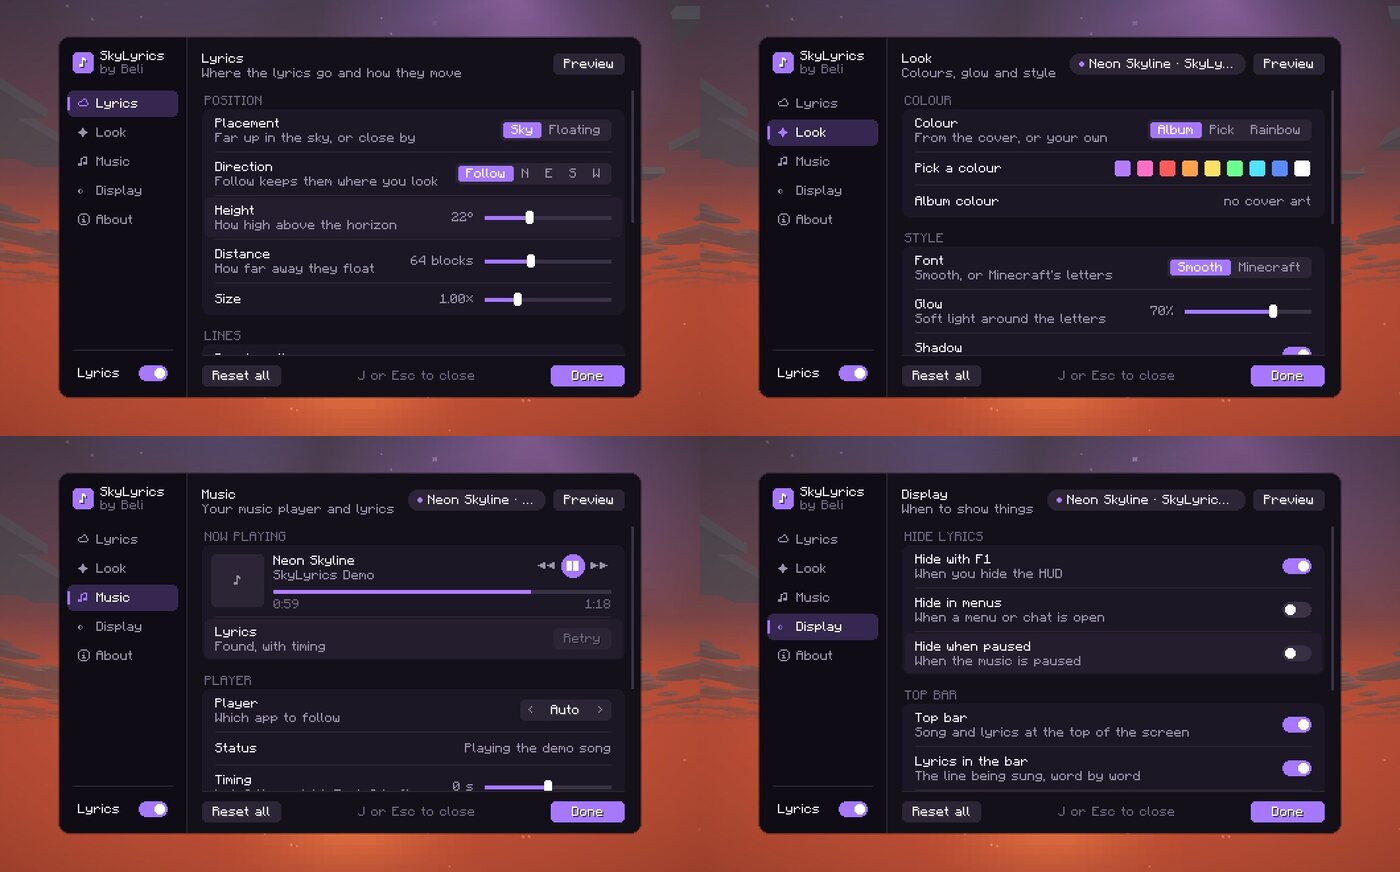
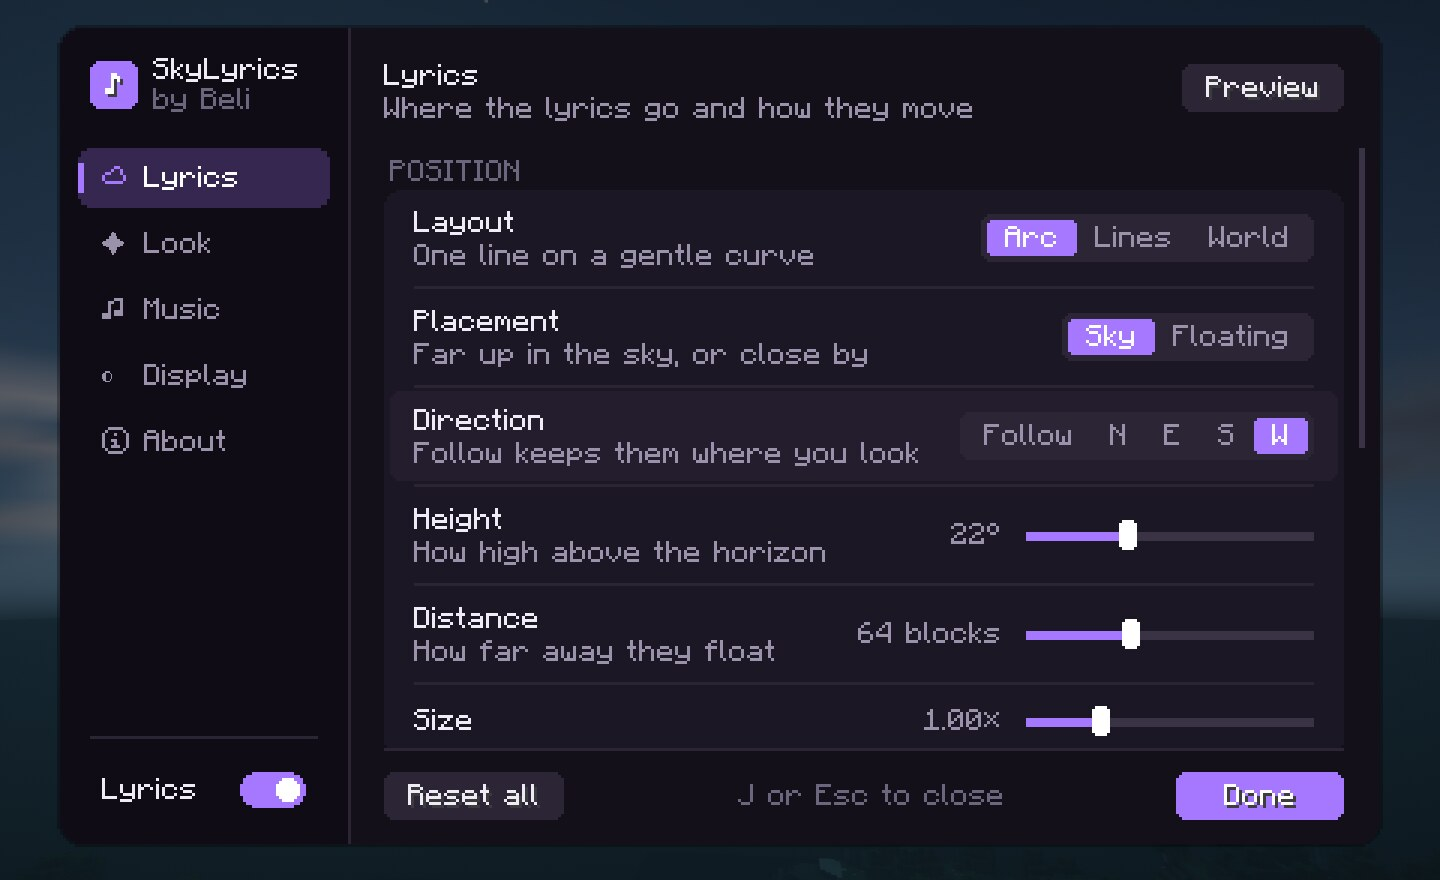
README: pictures of the Synthwave, Moonlight and Eclipse skies and the World layout
Also a fresh picture of the settings screen.

diff --git a/README.md b/README.md
@@ -35,6 +35,10 @@ Download it from the [Releases page](https://github.com/arbelonson-source/belis-
 | Sunset, with shaders | Aurora at night, with shaders |
 | ![Nebula at night](docs/nebula.jpg) | ![Daytime without shaders](docs/daytime.jpg) |
 | Nebula at night | Daytime, no shaders |
+| ![Synthwave sky](docs/synthwave.jpg) | ![Moonlight sky](docs/moonlight.jpg) |
+| Synthwave sky, with shaders | Moonlight sky, with shaders |
+| ![Eclipse sky](docs/eclipse.jpg) | ![World layout](docs/world-layout.jpg) |
+| Eclipse sky, with shaders | World layout: words placed around you |
 | ![Floating mode](docs/floating.jpg) | ![The settings screen](docs/settings.jpg) |
 | Floating mode, close by | The settings screen |
 
